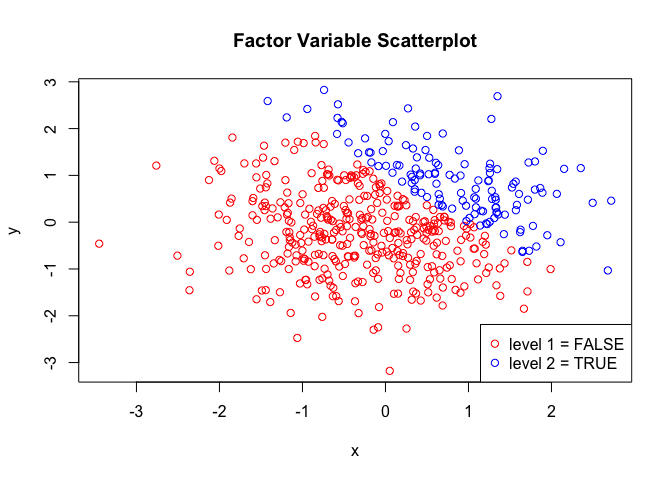
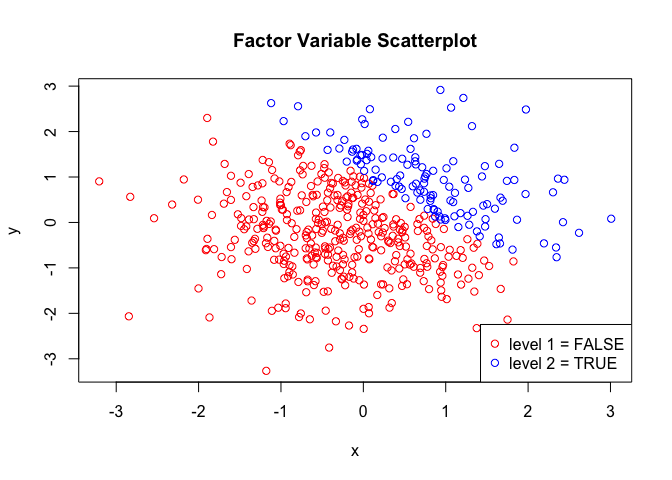
Minor editings and ggsave the first scatterplot

diff --git a/p8105_hw1_dz2426.md b/p8105_hw1_dz2426.md
@@ -48,9 +48,9 @@ mean_char_vec = mean(pull(df_1, char_vec))
 mean_fac_vec = mean(pull(df_1, fac_vec))
 ```
 
-Comment 1: <br /> The mean of the random sample is 0.11. <br /> The mean
-of the logic vector is 0.62. <br /> The mean of the character vector is
-NA. <br /> The mean of the factor vector is NA. <br />
+Comment 1: <br /> The mean of the random sample is -0.16. <br /> The
+mean of the logic vector is 0.38. <br /> The mean of the character
+vector is NA. <br /> The mean of the factor vector is NA. <br />
 
 ``` r
 #Convert the logical, character, and factor vector to numeric variable
@@ -77,8 +77,8 @@ Here is the second code
 as.numeric(pull(df_1, log_vec)) * pull(df_1, random_samp)
 ```
 
-    ## [1] 0.2631640 0.0000000 0.0000000 1.1744158 0.7616893 0.0000000 1.4352720
-    ## [8] 0.9023370
+    ## [1] 0.0000000 0.1204666 0.0000000 0.0000000 1.4546108 0.9020222 0.0000000
+    ## [8] 0.0000000
 
 ``` r
 as.factor(pull(df_1, log_vec)) * pull(df_1, random_samp)
@@ -90,8 +90,8 @@ as.factor(pull(df_1, log_vec)) * pull(df_1, random_samp)
 as.numeric(as.factor(pull(df_1, log_vec))) * pull(df_1, random_samp)
 ```
 
-    ## [1]  0.5263279 -1.0396891 -1.1397933  2.3488315  1.5233786 -1.5086897
-    ## [7]  2.8705439  1.8046740
+    ## [1] -0.5703418  0.2409332 -0.4430649 -0.4029780  2.9092217  1.8040443
+    ## [7] -2.1758243 -0.2017707
 
 # Problem 2
 
@@ -120,7 +120,7 @@ prop_case = mean(pull(df_2, log_vec_2))
 
 Description of data frame: <br /> The size of the data set is 500 and 5.
 <br /> The mean, median and standard deviation of x are -0.04, -0.08 and
-1, respectively. <br /> The proportion of cases for which x+y\>1 is
+0.97, respectively. <br /> The proportion of cases for which x+y\>1 is
 0.25.
 
 ## Section 2
@@ -165,9 +165,3 @@ which x+y\>1, these three scatterplots clearly show that there is a much
 higher chance to obtain x+y\<1 (red dots). On each plot, it also shows
 that with higher x and y values (blue dots), it is more likely to get a
 ‘TRUE’ result (x+y\>1).
-
-``` r
-ggsave("plot_one.pdf",plot_one)
-```
-
-    ## Saving 7 x 5 in image
